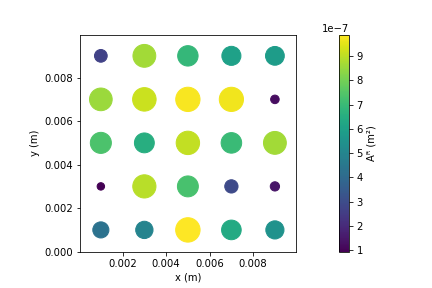
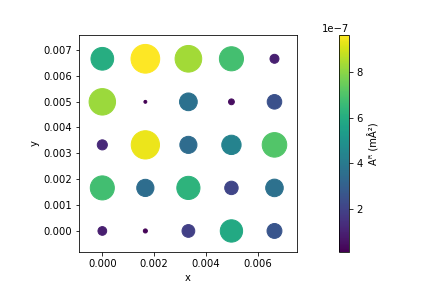
affichage avec matrice

diff --git a/affichage.py b/affichage.py
@@ -1,4 +1,4 @@
-"""Module qui permet l'affichage des sphères."""
+"""Module qui permet les differents affichages."""
 
 import matplotlib.pyplot as plt
 from matplotlib.patches import Circle
@@ -8,68 +8,58 @@ import numpy as np
 import random
 
 
-def affichage(liste_x, liste_y, liste_aire):
+def affichage(matrice_aire):
     """
-    Crée le graphique représentant les sphères.
+    Cree le graphique representant les spheres.
 
     Parameters
     ----------
-    liste_x : list of float
-        Liste des coordonnées x des centres des sphères.
-    liste_y : list of float
-        Liste des coordonnées y des centres des sphères.
-    liste_aire : list of float
-        Liste des aires des centres des sphères.
-
-    Raises
-    ------
-    ValueError
-        Si les listes ne sont pas de même taille.
+    matrice_aire : np.array of float
+        Matrice des aires des spheres.
 
     Returns
     -------
     None.
 
     """
-    # On vérifie que les listes sont de même taille
-    if not (len(liste_x) == len(liste_y) and len(liste_y) == len(liste_aire)):
-        raise ValueError("Les tailles des listes sont différentes !")
-
-    fig, ax = plt.subplots()  # Crée le graphique
+    fig, ax = plt.subplots()  # Cree le graphique
 
     cmap = plt.get_cmap('viridis')  # Choix du jeu de couleurs
-    norm = mcolors.Normalize(vmin=min(liste_aire), vmax=max(liste_aire))
+    norm = mcolors.Normalize(vmin=np.min(matrice_aire),
+                             vmax=np.max(matrice_aire))
     sm = ScalarMappable(cmap=cmap, norm=norm)
     sm.set_array([])  # Permet l'utilisation d'une colorbar
 
-    rayon_max = np.sqrt(liste_aire[0]/np.pi)  # On va chercher le rayon maximal
-    for i in range(len(liste_x)):  # Création des cercles
-        color = cmap(norm(liste_aire[i]))  # Choix de la couleur du cercle i
-        rayon = np.sqrt(liste_aire[i]/np.pi)  # Calcule le rayon
-        circle = Circle((liste_x[i], liste_y[i]), radius=rayon,
-                        fill=True, color=color)  # Crée le cercle i
-        ax.add_patch(circle)  # Ajout du cercle
-        if rayon > rayon_max:  # Si le rayon i est supérieur au rayon max
-            rayon_max = rayon  # On met à jour le rayon max
+    matrice_rayon = np.sqrt(matrice_aire/np.pi)
+
+    espacement = 3 * np.max(matrice_rayon)  # Espace entre deux centres
+
+    for i in range(len(matrice_aire)):  # Creation des cercles
+        for j in range(len(matrice_aire[0])):
+            color = cmap(norm(matrice_aire[i][j]))  # Couleur du cercle i, j
+            circle = Circle((i * espacement, j * espacement),
+                            radius=matrice_rayon[i][j],
+                            fill=True, color=color)  # Cree le cercle i, j
+            ax.add_patch(circle)  # Ajout du cercle
 
     cbar = plt.colorbar(sm, ax=ax)  # Ajoute la colorbar
     cbar.set_label('A\u1D3F (m²)')  # Titre de la colorbar
 
-    # Limites des axes vallent les positions extrêmes décalées du rayon max
-    ax.set_xlim(min(liste_x) - rayon_max, max(liste_x) + rayon_max)
-    ax.set_ylim(min(liste_y) - rayon_max, max(liste_y) + rayon_max)
+    # Limites des axes vallent les positions extremes decalees du rayon max
+    ax.set_xlim(- espacement/2,
+                (len(matrice_rayon) - 1) * espacement + espacement / 2)
+    ax.set_ylim(- max(matrice_rayon[0]),
+                (len(matrice_rayon[0]) - 1) * espacement + espacement / 2)
 
     # Affichez le graphique
-    plt.axis('scaled')  # Permet un repère normé
-    plt.xlabel('x (m)')  # Nom de l'axe x
-    plt.ylabel('y (m)')  # Nom de l'axe y
+    plt.axis('scaled')  # Permet un repere norme
+    plt.xlabel('x')  # Nom de l'axe x
+    plt.ylabel('y')  # Nom de l'axe y
     plt.savefig("aire.png")  # Permet de sauvegarder le fichier
     plt.show()  # Affiche le graphique
 
 
 if __name__ == "__main__":
-    liste_x = ([0.001] * 5 + [0.003] * 5 + [0.005] * 5 + [0.007] * 5
-               + [0.009] * 5)
-    liste_y = [0.001, 0.003, 0.005, 0.007, 0.009] * 5
-    liste_aire = [random.random()/10**6 for i in range(25)]
-    affichage(liste_x, liste_y, liste_aire)
+    matrice_aire = np.array([[random.random()/10**6 for i in range(5)]
+                             for j in range(5)])
+    affichage(matrice_aire)
